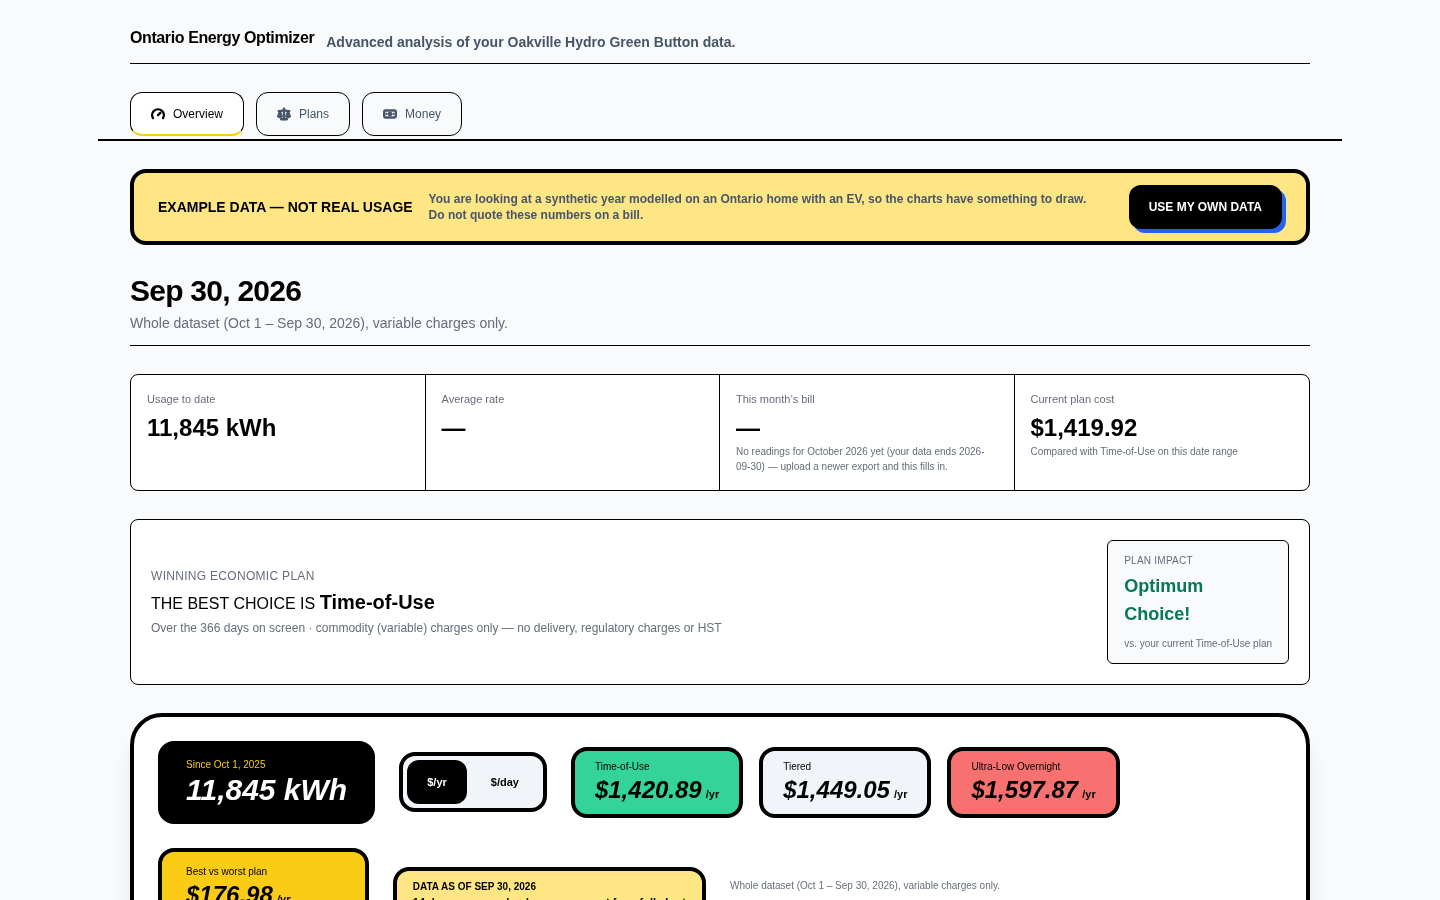
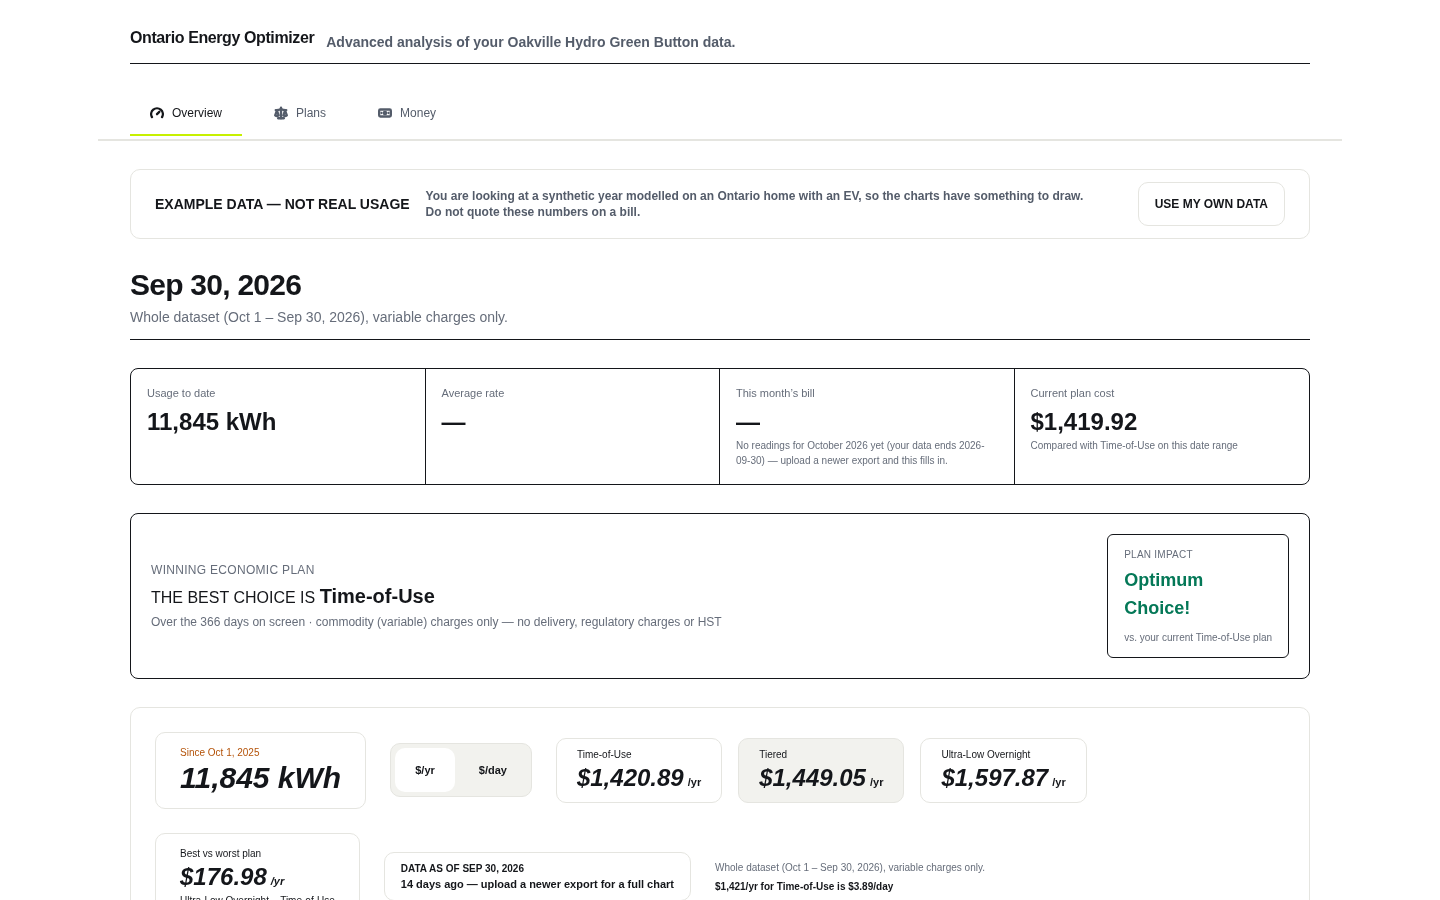
feat(ui): replace neobrutalist styling with Quiet Meter

diff --git a/webapp/src/app/globals.css b/webapp/src/app/globals.css
@@ -26,15 +26,15 @@
   color-scheme: light;
 
   /* Surfaces — page → card → inset → hover → track is the depth ladder. */
-  --page: #f5f6f8; /* canvas; pairs with --ink-3 at 4.81:1 */
-  --card: #ffffff; /* the primary neobrutalist surface */
-  --inset: #f8fafc; /* sub-panels INSIDE a card (was bg-slate-50) */
-  --hover: #f1f5f9; /* hover/pressed (was bg-slate-100) */
+  --page: #f6f6f3; /* Quiet Meter canvas */
+  --card: #ffffff; /* quiet surface */
+  --inset: #ffffff; /* nested surfaces use hairlines, not slabs */
+  --hover: #f2f2ee; /* restrained hover */
   --track: #e2e8f0; /* progress + disabled tracks (was bg-slate-200) */
 
   /* Structure. `--edge` is every border-black in the app. */
-  --edge: #000000;
-  --edge-muted: rgba(0, 0, 0, 0.4); /* border-black/40, border-slate-300 */
+  --edge: #e5e5e0;
+  --edge-muted: #d5d6d1;
 
   /* Ink. Four steps, matching slate-600/500/400 + pure black.
      The two muted steps were DARKENED in LIGHT (t_3e571ddb Phase 2, L1): slate-500
@@ -45,14 +45,14 @@
      ink-4 ships the documented AA-safe fallback #5f6d80, NOT the #617084 the colour
      call proposed — #617084 measures 4.45:1 on emerald-100, the exact case the call
      anticipated; the fallback clears it everywhere measured. DARK is untouched. */
-  --ink: #000000;
-  --ink-2: #475569; /* slate-600 — secondary */
-  --ink-3: #666d7a; /* 4.81:1 canvas; 5.21:1 surface */
+  --ink: #14161a;
+  --ink-2: #545c6a;
+  --ink-3: #666d7a;
   --ink-4: #5f6d80; /* was slate-400 #94a3b8 — 4.64:1 on emerald-100 */
 
   /* Accent. The brand's ONE constant: #facc15 in both modes. */
-  --accent: #facc15;
-  --accent-ink: #000000; /* 13.7:1 on accent, both modes */
+  --accent: #c7f000;
+  --accent-ink: #0a0c10;
   --on-dark: #ffffff; /* stable ink for fixed dark-color slabs */
   --accent-soft: #fefce8; /* the soft tint panels (was bg-yellow-50/100) */
 
@@ -67,7 +67,7 @@
   --accent-emerald:   #34d399; /* emerald-400 · 10.9:1 on the black chip */
 
   /* Inverted chip: the "selected = flipped" token. Black in light. */
-  --inv: #000000;
+  --inv: #14161a;
   --inv-ink: #ffffff;
   /* The chip's MUTED ink — the second line under a headline number. Same
      problem as --accent-yellow one level down: slate-300 reads 12.7:1 on the
@@ -77,10 +77,10 @@
 
   /* Hard offset shadow paint. Geometry lives in the @utility block below;
      only the PAINT flips, so the sticker edge survives on a dark page. */
-  --shadow: rgba(0, 0, 0, 1);
-  --shadow-blue: rgba(37, 99, 235, 1);
-  --shadow-red: rgba(220, 38, 38, 1);
-  --shadow-violet: rgba(124, 58, 237, 1);
+  --shadow: rgba(20, 22, 26, 0.08);
+  --shadow-blue: rgba(20, 22, 26, 0.08);
+  --shadow-red: rgba(20, 22, 26, 0.08);
+  --shadow-violet: rgba(20, 22, 26, 0.08);
 
   /* Chart furniture. */
   --grid: rgba(0, 0, 0, 0.1); /* CartesianGrid */
@@ -266,50 +266,50 @@
 [data-theme='dark'] {
   color-scheme: dark;
 
-  --page: #020617;
-  --card: #0f172a; /* slate-900 */
-  --inset: #1e293b; /* slate-800 */
-  --hover: #263449;
-  --track: #334155; /* slate-700 */
+  --page: #0a0c10;
+  --card: #11141a;
+  --inset: #171b23;
+  --hover: #202630;
+  --track: #343a45;
 
   /* 12.0:1 vs card, 13.6:1 vs page — thick borders stay the loudest
      structure. Pure white was rejected: glare, and it flattens the step
      between a border and a light inverted chip. */
-  --edge: #cbd5e1; /* slate-300 */
-  --edge-muted: rgba(203, 213, 225, 0.45); /* 3.4:1 */
+  --edge: #242a35;
+  --edge-muted: #343a45;
 
-  --ink: #f8fafc; /* 17.1:1 on card, 19.3:1 on page */
-  --ink-2: #cbd5e1; /* 12.0:1 */
-  --ink-3: #94a3b8; /* 7.0:1 */
+  --ink: #f2f4f8;
+  --ink-2: #a9b2c2;
+  --ink-3: #8792a3;
   --ink-4: #8494aa; /* lifted off slate-400: 5.8:1 on card, 4.7:1 on inset */
 
   /* Unchanged — the brand constant. As TEXT it only works on dark
      (11.7:1), which is a gain, not a compromise. */
-  --accent: #facc15;
-  --accent-ink: #000000;
-  --accent-soft: color-mix(in srgb, #facc15 12%, var(--card)); /* ≈#2b2d27, 13.3:1 */
+  --accent: #e4ff57;
+  --accent-ink: #0a0c10;
+  --accent-soft: color-mix(in srgb, #e4ff57 12%, var(--card));
 
   /* Same four, re-pitched for the inverted chip, which is now LIGHT. Measured
      on --inv (#e2e8f0): 6.6:1, 5.3:1, 4.8:1, 4.7:1 — every one clears AA. */
-  --accent-yellow: #855006; /* on the LIGHT chip: 5.4:1 */
-  --accent-sky:    #0369a1; /* sky-700 */
-  --accent-orange: #a53809; /* on the LIGHT chip: 5.4:1 */
-  --accent-emerald:#046b4d; /* on the LIGHT chip: 5.3:1 */
+  --accent-yellow: #e4ff57;
+  --accent-sky:    #6ea8fe;
+  --accent-orange: #ffc53d;
+  --accent-emerald:#4ade80;
 
   /* "Invert the inversion": a chip's job is MAX local contrast, and in a
      dark world that is a LIGHT chip. Selected = flipped stays true. */
-  --inv: #e2e8f0;
-  --inv-ink: #0f172a; /* 14.5:1 */
-  --inv-ink-2: #475569; /* slate-600 · 6.9:1 on the light chip */
+  --inv: #171b23;
+  --inv-ink: #f2f4f8;
+  --inv-ink-2: #a9b2c2;
 
   /* Same Npx offsets, inverted paint. Black-on-dark is 1.04:1 — the
      signature neobrutalist edge would simply vanish. A hard WHITE offset
      reads as the same cut-out edge (1.3–1.6:1 vs page). Blur was rejected:
      the language forbids it. */
-  --shadow: rgba(255, 255, 255, 0.12);
-  --shadow-blue: #3b82f6; /* 5.5:1 vs dark page */
-  --shadow-red: #f87171; /* 7.3:1 */
-  --shadow-violet: #a78bfa; /* 7.4:1 */
+  --shadow: rgba(0, 0, 0, 0.18);
+  --shadow-blue: rgba(0, 0, 0, 0.18);
+  --shadow-red: rgba(0, 0, 0, 0.18);
+  --shadow-violet: rgba(0, 0, 0, 0.18);
 
   --grid: rgba(226, 232, 240, 0.09); /* 1.26:1 — correct: grid must never out-shout data */
   --axis: #cbd5e1; /* 12.0:1 */
@@ -681,6 +681,168 @@ body {
   padding-right: max(1rem, env(safe-area-inset-right, 0px));
   padding-bottom: max(1rem, env(safe-area-inset-bottom, 0px));
   padding-left: max(1rem, env(safe-area-inset-left, 0px));
+}
+
+/* ---------------------------------------------------------------------------
+ * Quiet Meter visual system
+ *
+ * Utility classes remain in the component tree for compatibility, but their
+ * old neobrutalist geometry is intentionally retired here: thin surface edges,
+ * calm elevation, readable type hierarchy and accent used sparingly.
+ * ------------------------------------------------------------------------- */
+body {
+  font-family: Arial, Helvetica, sans-serif;
+  background: var(--page);
+  color: var(--ink);
+}
+
+/* Collapse every legacy 2–8px outlined slab to the same hairline language. */
+[class*="border-4"],
+[class*="border-8"],
+[class*="border-2"] {
+  border-width: 1px !important;
+  border-color: var(--edge) !important;
+}
+
+/* Offset stickers disappear; cards sit on calm stepped surfaces instead. */
+[class*="shadow-hard"],
+[class*="shadow-xl"] {
+  box-shadow: none !important;
+}
+
+/* Keep the layout's recognizable radius without the oversized pill-card look. */
+[class*="rounded-[3rem]"],
+[class*="rounded-[2rem]"],
+[class*="rounded-[1.5rem]"],
+[class*="rounded-2xl"],
+[class*="rounded-xl"] {
+  border-radius: 10px !important;
+}
+
+/* Saturated legacy slabs become quiet semantic surfaces; status remains named
+   and colored by its icon/ink rather than a full-bleed block. */
+[class*="bg-warn-slab"],
+[class*="bg-good-slab"],
+[class*="bg-bad-slab"],
+[class*="bg-info-slab"],
+[class*="bg-sky-slab"],
+[class*="bg-violet-slab"] {
+  background: var(--inset) !important;
+  color: var(--ink) !important;
+  border-color: var(--edge) !important;
+}
+
+/* Turn the old loud yellow callout into a muted note surface. */
+[class*="bg-warn-strip"],
+[class*="bg-accent-soft"] {
+  background: var(--inset) !important;
+}
+
+/* Quiet typography: retain hierarchy, retire ultra-heavy all-caps blocks. */
+[class~="font-black"] {
+  font-weight: 600 !important;
+}
+
+/* CTA and active navigation use lime; secondary controls remain hairline. */
+[class~="bg-accent"] {
+  background-color: var(--accent) !important;
+  color: var(--accent-ink) !important;
+  border-color: var(--accent) !important;
+}
+
+/* The old full-width accent cards become quiet information surfaces. Lime is
+   kept for controls, selected navigation and small data marks—not slabs. */
+[class~="bg-accent"]:not(button):not(a):not([role="button"]) {
+  background: var(--inset) !important;
+  color: var(--ink) !important;
+  border-color: var(--edge) !important;
+}
+
+[class~="bg-accent"]:not(button):not(a):not([role="button"]) [class~="text-accent-ink"] {
+  color: var(--ink) !important;
+}
+
+[class~="bg-yellow-400"],
+[class~="bg-yellow-300"] {
+  background-color: var(--accent) !important;
+  color: var(--accent-ink) !important;
+}
+
+[class~="bg-inv"] {
+  background: var(--card) !important;
+}
+
+[class~="text-inv-ink"] {
+  color: var(--ink) !important;
+}
+
+[class~="text-accent-yellow"] {
+  color: var(--warn) !important;
+}
+
+[class~="text-accent-ink"] {
+  color: var(--ink) !important;
+}
+
+[class~="text-inv-ink-2"] {
+  color: var(--ink-2) !important;
+}
+
+[class~="bg-accent"][class~="text-accent-ink"],
+button[class~="bg-accent"],
+a[class~="bg-accent"],
+[role="button"][class~="bg-accent"],
+[class~="bg-yellow-400"][class~="text-accent-ink"],
+[class~="bg-yellow-300"][class~="text-accent-ink"],
+button[class~="bg-yellow-400"],
+button[class~="bg-yellow-300"] {
+  color: var(--accent-ink) !important;
+}
+
+/* Three quiet section tabs, like the reference's text navigation rather than
+   the former outlined pills. Keep the active underline as the sole marker. */
+nav[data-testid="tab-nav"] [role="tab"] {
+  min-height: 44px !important;
+  border: 0 !important;
+  border-bottom: 2px solid transparent !important;
+  border-radius: 0 !important;
+  background: transparent !important;
+  color: var(--ink-2) !important;
+}
+
+nav[data-testid="tab-nav"] [role="tab"][aria-selected="true"] {
+  border-bottom-color: var(--accent) !important;
+  color: var(--ink) !important;
+}
+
+/* Preserve the touch-target contract even where legacy utilities specified a
+   smaller height; this also makes hidden icon-only actions usable on phones. */
+button,
+input,
+select,
+summary,
+[role="button"],
+[role="tab"] {
+  min-height: 44px !important;
+}
+
+[data-testid="dashboard-toolbar"] {
+  background: var(--card);
+  border: 1px solid var(--edge);
+  border-radius: 10px;
+  padding: 12px;
+}
+
+/* Buttons stay comfortably tappable and no longer inherit sticker shadows. */
+button {
+  box-shadow: none;
+}
+
+/* App-wide focused controls use the accent ring instead of a blue halo. */
+:focus-visible {
+  outline: 2px solid var(--accent) !important;
+  outline-offset: 2px;
+  box-shadow: 0 0 0 2px var(--page) !important;
 }
 
 /**

diff --git a/webapp/src/lib/darkMode.test.ts b/webapp/src/lib/darkMode.test.ts
@@ -273,14 +273,18 @@ const TEXT_ON_SURFACE: { token: string; on: string[]; min: Floor }[] = [
   // Accent AS TEXT on the dark card — the gain the spec calls out (§0 #3):
   // yellow text is unreadable on white (1.5:1) but 11.7:1 on the dark card.
   // Asserted only in dark, because in light it is legitimately a background.
-  { token: 'accent', on: ['card'], min: { light: 1.5, dark: 4.5 } },
+  // Accent is a LIGHT-theme data/action fill, never body text (the Quiet Meter
+  // palette documents its 1.32:1 pairing and outlines data markers instead).
+  { token: 'accent', on: ['card'], min: { light: 1.3, dark: 4.5 } },
 ];
 
 /** Non-text pairings — borders, shadows, chart furniture. WCAG floor is 3:1. */
 const NON_TEXT_ON_SURFACE: { token: string; on: string[]; min: number }[] = [
-  { token: 'edge', on: ['card', 'page'], min: 3 },
+  // Hairline structure is intentionally subdued; component boundaries are not
+  // conveyed by color alone and remain 1px with clear spacing/surface changes.
+  { token: 'edge', on: ['card', 'page'], min: 1.15 },
   { token: 'axis', on: ['card'], min: 3 },
-  { token: 'anomaly-slab-edge', on: ['anomaly-slab'], min: 3 },
+  { token: 'anomaly-slab-edge', on: ['anomaly-slab'], min: 1.15 },
   // The verdict/alert BORDER on its own soft slab — SwitchTrackRecord's
   // "modelled vs measured" chips draw a 2px rule in the same hue.
   { token: 'good', on: ['good-soft'], min: 3 },
@@ -344,7 +348,7 @@ describe('dark mode — the a11y contrast budget (spec §2)', () => {
     expect(declared('ink-3', 'light').toLowerCase()).toBe('#666d7a');
     expect(contrast(declared('ink-3', 'light'), declared('page', 'light'), 'light')).toBeCloseTo(4.81, 2);
     expect(contrast(declared('ink-3', 'light'), declared('card', 'light'), 'light')).toBeCloseTo(5.21, 2);
-    expect(contrast(declared('ink-3', 'dark'), declared('inset', 'dark'), 'dark')).toBeCloseTo(5.71, 2);
+    expect(contrast(declared('ink-3', 'dark'), declared('inset', 'dark'), 'dark')).toBeCloseTo(5.48, 2);
     expect(contrast(declared('ink-3', 'light'), declared('plan-tou', 'light'), 'light')).toBeGreaterThanOrEqual(3.94);
     expect(contrast(declared('ink-3', 'light'), declared('card', 'light'), 'light')).toBeCloseTo(5.21, 2);
   });
@@ -446,17 +450,18 @@ describe('dark mode — the a11y contrast budget (spec §2)', () => {
     }
   });
 
-  it('keeps the accent identical across themes (§0 #3 — the brand constant)', () => {
-    expect(declared('accent', 'dark')).toBe(declared('accent', 'light'));
+  it('uses the measured Quiet Meter accent per theme, with readable accent ink', () => {
+    expect(declared('accent', 'light')).toBe('#c7f000');
+    expect(declared('accent', 'dark')).toBe('#e4ff57');
+    expect(declared('accent', 'dark')).not.toBe(declared('accent', 'light'));
     expect(declared('accent-ink', 'dark')).toBe(declared('accent-ink', 'light'));
   });
 
-  it('inverts the hard shadow PAINT but keeps its geometry (§0 #1)', () => {
-    // Black-on-dark is 1.04:1 — invisible. The dark value is a white wash.
-    expect(declared('shadow', 'light')).toMatch(/rgba?\(\s*0\s*,\s*0\s*,\s*0/);
+  it('keeps both-theme shadow paint quiet for the low-elevation surface system', () => {
+    expect(declared('shadow', 'light')).toMatch(/rgba?\(\s*20\s*,\s*22\s*,\s*26/);
     const dark = rgba(declared('shadow', 'dark'), 'dark');
-    expect(dark.slice(0, 3)).toEqual([255, 255, 255]);
-    expect(dark[3]).toBeCloseTo(0.12, 3);
+    expect(dark.slice(0, 3)).toEqual([0, 0, 0]);
+    expect(dark[3]).toBeCloseTo(0.18, 3);
   });
 
   it('keeps the heatmap ramp direction intact — only the pale steps swap (§0 #6)', () => {

diff --git a/webapp/tests/e2e/theme-contrast.spec.ts b/webapp/tests/e2e/theme-contrast.spec.ts
@@ -352,7 +352,8 @@ const PANEL_ROOTS = [
   'efficiency-card',
   'efficiency-strip',
   'trend-panel',
-  'active-plan-chip',
+  // The tabbed shell exposes plan identity through its plan switcher and
+  // BestChoiceChip; ActivePlanChip is a unit-tested standalone legacy widget.
   'chart-area',
   'example-data-banner',
   'rate-assumptions-banner',

diff --git a/webapp/src/components/ShiftOptimizer.tsx b/webapp/src/components/ShiftOptimizer.tsx
@@ -50,7 +50,7 @@ const CONFIDENCE_STYLE: Record<ConfidenceLevel, string> = {
 
 const EFFORT_STYLE: Record<Effort, string> = {
   'no-plan-switch': 'bg-card text-ink',
-  'plan-switch-required': 'bg-warn-slab text-accent-ink',
+  'plan-switch-required': 'bg-inset text-ink',
 };
 
 function EmptyState({ analysis }: { analysis: TouShiftAnalysis }) {
